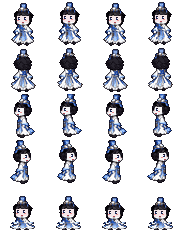
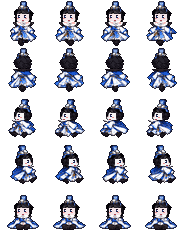
Sharp realm titles (full-res artwork on the overlay) and real pixel walk cycles from the painted motion atlas with stable pixel heads, stepping with walk phase
Claude-Session: https://claude.ai/code/session_01L2ryCMVY95yrrrnw2USKSA

diff --git a/js/89-pixel-heroes.js b/js/89-pixel-heroes.js
@@ -1,6 +1,6 @@
 /* Hand-drawn pixel heroes (pixel mode only). Atlases from tools/pixel/build_atlas.py:
-   4 columns × 5 rows of 46×46 cells (figure 42 px, converted from the painted class art by
-   tools/pixel/build_heroes_v3.py) — front, back, walking left, walking
+   4 columns × 5 rows of 46×46 cells (figure 42 px). Walk rows are real 4-step walk cycles from the
+   painted motion atlas with the v3 pixel heads (tools/pixel/build_heroes_v4.py) — front, back, walking left, walking
    right, seated meditation. Drawn at a whole number of screen pixels per art pixel and snapped
    to the pixel grid so every hero stays sharp. Classes without a pixel atlas keep their painted sprites. */
 (function(){
@@ -25,7 +25,7 @@
   const fx=feet?.x??x+width/2,fy=feet?.y??y+height;
   const fit=window.characterFit?.(ap,direction,fx,fy,height),figure=fit?.H||height*.8;
   const t=motion.time??(worldMap.environmentClock||performance.now()/1000);
-  const row=motion.meditating?4:(ROW[direction]??0),col=motion.meditating?Math.floor(t*1.6)%4:motion.moving?Math.floor(t*8)%4:0;
+  const row=motion.meditating?4:(ROW[direction]??0),col=motion.meditating?Math.floor(t*1.6)%4:motion.moving?(Number.isFinite(motion.phase)?Math.floor(motion.phase/(Math.PI/2)+.5)%4:Math.floor(t*8)%4):0;
   const m=ctx.getTransform(),k=Math.hypot(m.a,m.b)||1,px=Math.max(1,Math.round(figure/FIG*k)),scale=px/k;
   const image=cell(s,row,col),w=CW*scale,h=CH*scale;
   // Snap the top-left corner to the device pixel grid (axis-aligned transforms).

diff --git a/js/00-pixel-style.js b/js/00-pixel-style.js
@@ -20,7 +20,10 @@
   return set.has(key)?prefix+key.slice(0,-4)+'.px.png'+rest:value;
  }
  const desc=Object.getOwnPropertyDescriptor(HTMLImageElement.prototype,'src');
- Object.defineProperty(HTMLImageElement.prototype,'src',{configurable:true,enumerable:desc.enumerable,get(){return desc.get.call(this);},set(v){desc.set.call(this,swap(v));}});
+ // Realm badges and auras drawn in the world keep their full artwork (titles must stay readable);
+ // the same art shown as an icon in the interface is swapped when it is attached (observer below).
+ const FULL=/Item\/(?:DHCanhGioi|CanhGioi)\//;
+ Object.defineProperty(HTMLImageElement.prototype,'src',{configurable:true,enumerable:desc.enumerable,get(){return desc.get.call(this);},set(v){desc.set.call(this,!this.isConnected&&FULL.test(String(v))?v:swap(v));}});
  const setAttr=Element.prototype.setAttribute;
  Element.prototype.setAttribute=function(name,value){return setAttr.call(this,name,this instanceof HTMLImageElement&&String(name).toLowerCase()==='src'?swap(value):value);};
  // Markup inserted with innerHTML bypasses both setters.

diff --git a/js/35k-character-titles.js b/js/35k-character-titles.js
@@ -6,6 +6,6 @@
   const height=width*entry.canvas.height/entry.canvas.width;return{entry,x:x-width/2,y:y-characterAuras.bodyNameHeight(ap)-height-4,width,height};
  }
  function draw(ctx,x,y,ap=P.ap){const box=metrics(x,y,ap);if(!box)return;ctx.save();ctx.imageSmoothingEnabled=true;ctx.imageSmoothingQuality='high';ctx.globalCompositeOperation='source-over';ctx.globalAlpha=.97;ctx.shadowColor='rgba(5,12,20,.8)';ctx.shadowBlur=1.2;ctx.shadowOffsetY=.7;ctx.drawImage(box.entry.canvas,box.x,box.y,box.width,box.height);ctx.restore();}
- const character=drawChar;drawChar=function(ctx,x,y,dir,facing,moving,phase,attacking,ap,...rest){character(ctx,x,y,dir,facing,moving,phase,attacking,ap,...rest);if(ctx===g)draw(ctx,x,y,ap);};
+ const character=drawChar;drawChar=function(ctx,x,y,dir,facing,moving,phase,attacking,ap,...rest){character(ctx,x,y,dir,facing,moving,phase,attacking,ap,...rest);if(ctx===g)window.characterTitles.draw(ctx,x,y,ap);};
  window.characterTitles={forAppearance,metrics,draw,height:ap=>forAppearance(ap)?width/3+4:0};
 })();

diff --git a/js/88-pixel-mode.js b/js/88-pixel-mode.js
@@ -107,6 +107,13 @@
   return nativeDraw(src,...a);
  };
 
+ /* Realm titles: drawn on the full-resolution overlay so the lettering is sharp. */
+ if(window.characterTitles?.metrics){characterTitles.draw=function(ctx,x,y,ap=P.ap){
+  const box=characterTitles.metrics(x,y,ap);if(!box)return;const m=ctx.getTransform();
+  o.save();o.setTransform(m.a*ratio,m.b*ratio,m.c*ratio,m.d*ratio,m.e*ratio,m.f*ratio);o.globalCompositeOperation='source-over';o.globalAlpha=.98;
+  o.imageSmoothingEnabled=true;o.imageSmoothingQuality='high';o.shadowColor='rgba(5,12,20,.85)';o.shadowBlur=2*ratio;o.shadowOffsetY=ratio;
+  o.drawImage(box.entry.canvas,box.x,box.y,box.width,box.height);o.restore();};}
+
  const baseDraw=dr;
  dr=function(){o.setTransform(1,0,0,1,0,0);o.clearRect(0,0,overlay.width,overlay.height);return baseDraw.apply(this,arguments);};
 })();

diff --git a/tools/pixel/build_heroes_v4.py b/tools/pixel/build_heroes_v4.py
@@ -1,0 +1,51 @@
+"""Pixel heroes v4: real walk cycles. Every frame of the painted motion atlas
+(Character/Motion/<Class>-v2.png: 4 walk frames x front/back/left/right + 4 meditation frames,
+with alternating feet) is converted to pixel art at the hero size with one shared palette per
+character, and gets a hand-style pixel face placed on the detected face.
+Atlas per class+gender: 4 columns x 5 rows of 46x46 cells (figure 42 px), same layout as v3.
+Run: python3 tools/pixel/build_heroes_v4.py -> Character/Pixel/<Class>-<Nam|Nu>.png"""
+import os,sys,json
+import numpy as np
+from PIL import Image
+HERE=os.path.dirname(os.path.abspath(__file__));sys.path.insert(0,HERE)
+from monsters import premul_down,palette_for,render
+from hero_convert import despeck,face_box
+from build_heroes_v3 import face
+ROOT=os.path.normpath(os.path.join(HERE,'..','..'))
+CW=CH=46;FIG=42
+def build(cls,g):
+    meta=json.load(open(os.path.join(ROOT,'Character','Motion','frames.json')))[f'{cls}/{g}']
+    sheet=Image.open(os.path.join(ROOT,meta['file'])).convert('RGBA');k=FIG/meta['standingHeight']
+    frames=[]
+    for f in meta['frames']:
+        x,y,w,h=f['rect'];crop=sheet.crop((x,y,x+w,y+h))
+        sw,sh=max(1,round(w*k)),max(1,round(h*k));frames.append((premul_down(crop,sw,sh),f['anchor'],(w,h)))
+    pal=palette_for([(rgb,al>.42) for (rgb,al),_,_ in frames],28)
+    # v3 heads (clean hand-placed faces) are put on every walking body so the face never changes
+    from hero_convert import views
+    import build_heroes_v3 as v3
+    v3.FIG=FIG;st=views(cls,g,FIG);kk=FIG/60;fb={d:v3.scaled(bx,kk) for d,bx in v3.FACES[(cls,g)].items()}
+    heads={'truoc':v3.face(st['truoc'],g,'truoc',fb['truoc']),'trai':v3.face(st['trai'],g,'trai',fb['trai'])}
+    heads['phai']=heads['trai'].transpose(Image.FLIP_LEFT_RIGHT);heads['sau']=st['sau']
+    NECK=round(FIG*.5)
+    def cx_of(a,y0,y1):
+        m=np.asarray(a)[y0:y1,:,3]>0;xs=np.nonzero(m)[1];return xs.mean() if len(xs) else a.width/2
+    atlas=Image.new('RGBA',(CW*4,CH*5))
+    for i,((rgb,al),anchor,(w,h)) in enumerate(frames):
+        row,col=divmod(i,4);body=despeck(render(rgb,al,pal))
+        view={0:'truoc',1:'sau',2:'trai',3:'phai',4:'truoc'}[row]
+        bb=body.getbbox();top=bb[1]
+        hd=heads[view];hb=hd.getbbox();head=hd.crop((0,hb[1],hd.width,hb[1]+NECK))
+        cut=top+NECK-(0 if row<4 else 2)
+        a=np.array(body);a[:max(0,cut-1),:,3]=0;body=Image.fromarray(a)
+        H=max(body.height,cut+1)+2;W=max(body.width,head.width)+4;fig=Image.new('RGBA',(W,H+NECK))
+        ox=2;fig.alpha_composite(body,(ox,NECK));bx=cx_of(body,cut,min(body.height,cut+6))+ox;hx=cx_of(head,NECK-6,NECK)
+        fig.alpha_composite(head,(int(round(bx-hx)),cut+NECK-NECK-1+NECK-NECK+0 if False else cut-NECK+NECK-1))
+        fb2=fig.getbbox();fig=fig.crop(fb2);centre=cx_of(fig,0,NECK)
+        atlas.alpha_composite(fig,(max(0,int(round(col*CW+CW/2-centre))),max(0,row*CH+CH-fig.height)))
+    return atlas
+if __name__=='__main__':
+    dest=os.path.join(ROOT,'Character','Pixel')
+    for cls in ('Kiem','Liem','Thuong','Quat'):
+        for g in ('Nam','Nu'):build(cls,g).save(os.path.join(dest,f'{cls}-{g}.png'),optimize=True)
+    print('ok')
